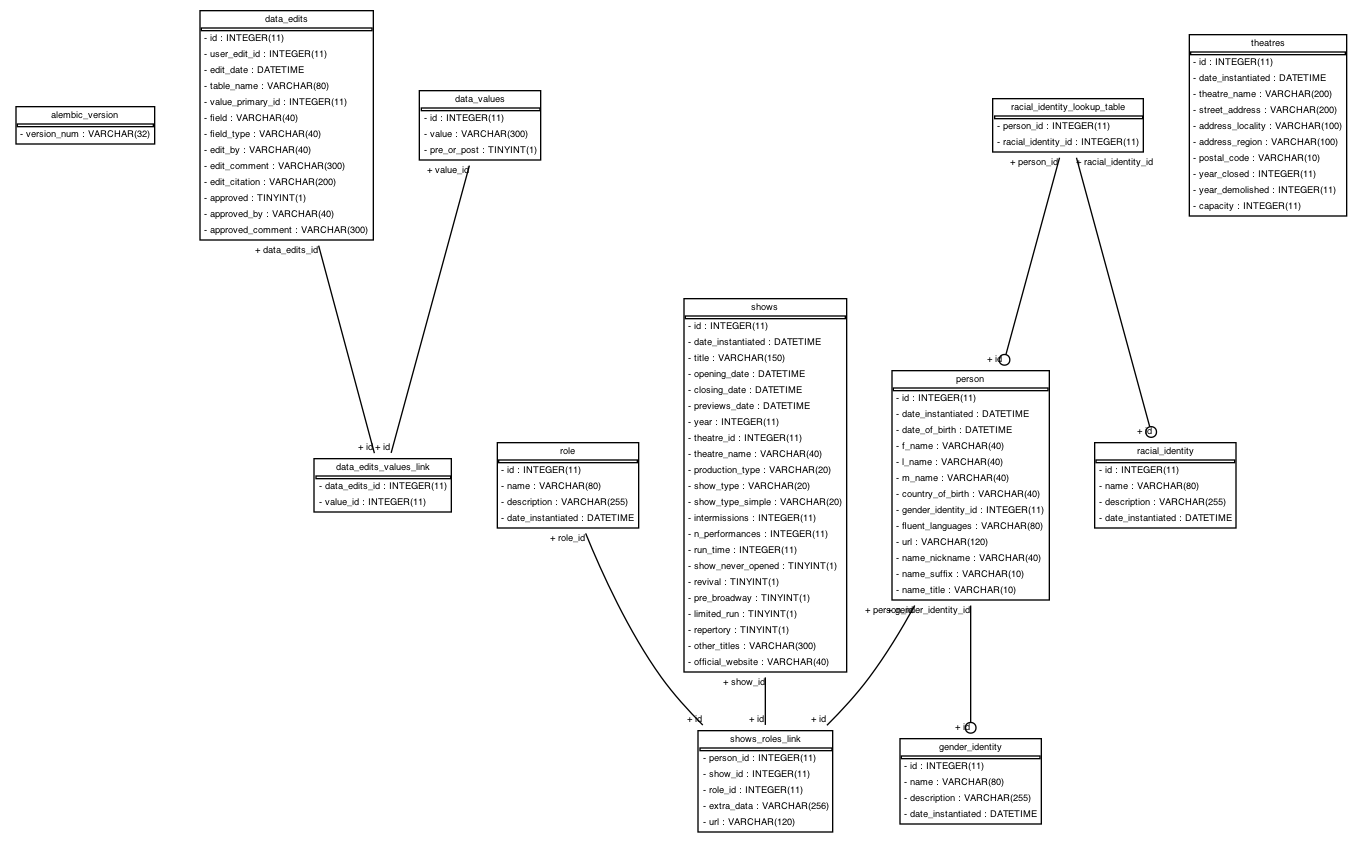
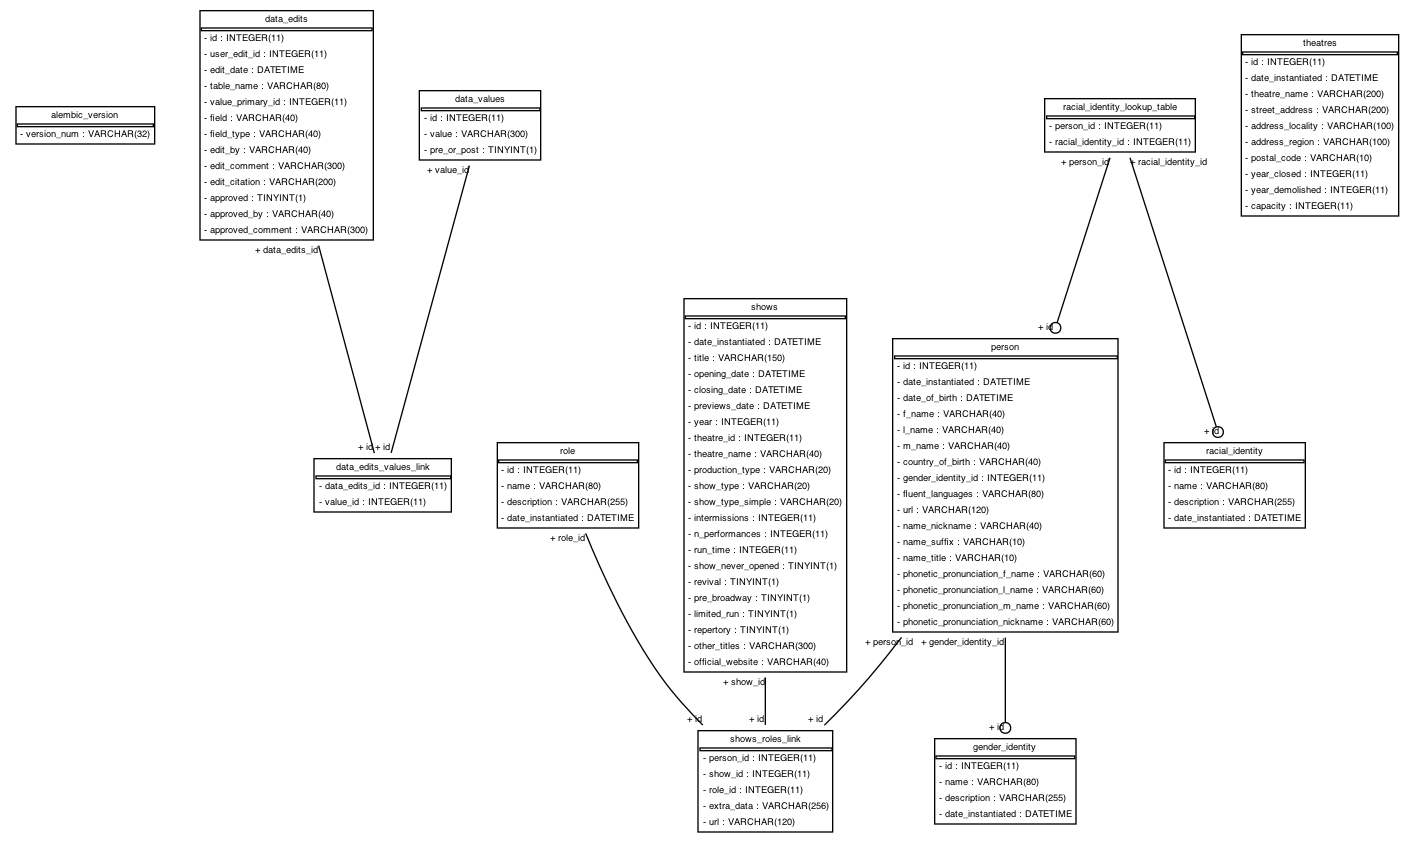
updated db to include phonetic pronounciation of names

diff --git a/app/databases/models/broadway/people.py b/app/databases/models/broadway/people.py
@@ -122,7 +122,7 @@ class Person(db.Model, BaseModel):
     id = db.Column(db.Integer,primary_key=True)
     date_instantiated = db.Column(db.DateTime, nullable=False, default=datetime.datetime.utcnow)
 
-
+    # Regular name
     name_title =  db.Column(db.String(10), nullable=True, unique=False)
     f_name = db.Column(db.String(40), nullable=True, unique=False)
     m_name = db.Column(db.String(40), nullable=True, unique=False)
@@ -139,24 +139,35 @@ class Person(db.Model, BaseModel):
         full_name.capitalize(force=True)
         return str(full_name)
 
+    # Phonetic pronounciation
+    phonetic_pronunciation_f_name = db.Column(db.String(60), nullable=True, unique=False)
+    phonetic_pronunciation_m_name = db.Column(db.String(60), nullable=True, unique=False)
+    phonetic_pronunciation_l_name = db.Column(db.String(60), nullable=True, unique=False)
+    phonetic_pronunciation_nickname = db.Column(db.String(60), nullable=True, unique=False)
+
+    @hybrid_property
+    def phonetic_pronunciation(self):
+        """Return full phonetic pronounciation"""
+        name_list = [self.phonetic_pronunciation_f_name, self.phonetic_pronunciation_m_name, self.phonetic_pronunciation_l_name, self.phonetic_pronunciation_nickname]
+        name_string = " ".join(map(str, name_list))
+        return name_string
+
 
     url = db.Column(db.String(120), unique=False, nullable=True)
-    #  Date of birth (or something blurred).
-    date_of_birth = db.Column(db.DateTime, nullable=True)
-
-
+    date_of_birth = db.Column(db.DateTime, nullable=True) #  We should blur this -- or apply some anonymization technique
 
     # --------------------------------------------------------------------------
     # Here's where I need help with...
+    # Convert this to a one to many...
     gender_identity_id = db.Column(db.Integer, db.ForeignKey('broadway.gender_identity.id'))
     gender_identity = db.relationship('GenderIdentity', backref="broadway.person",lazy="joined",join_depth=3)
 
     # --------------------------------------------------------------------------
 
     # one to many
-    # roles = db.relationship('Role', secondary=roles_table, backref=db.backref('person', lazy='dynamic'), passive_deletes=True)
     roles = relationship(Role, secondary='broadway.shows_roles_link', backref=db.backref('broadway.person', lazy='dynamic'), passive_deletes=True)
     shows = relationship('Show', secondary='broadway.shows_roles_link', backref=db.backref('broadway.person', lazy='dynamic'), passive_deletes=True)
+
 
     racial_identity = db.relationship('RacialIdentity', secondary='broadway.racial_identity_lookup_table', backref=db.backref('broadway.person', lazy='joined', join_depth=4), passive_deletes=True)
 
@@ -167,7 +178,18 @@ class Person(db.Model, BaseModel):
 
 
     # Assert is lowercase
-    @validates('f_name', 'm_name', 'l_name', 'full_name', 'country_of_birth', 'fluent_languages')
+    @validates(
+        'f_name',
+        'm_name',
+        'l_name',
+        # 'full_name',
+        'phonetic_pronunciation_f_name',
+        'phonetic_pronunciation_m_name',
+        'phonetic_pronunciation_l_name',
+        'phonetic_pronunciation_nickname',
+        'country_of_birth',
+        'fluent_languages',
+        )
     def convert_lower(self, key, value):
         if isinstance(value, str):
             return value.lower()
